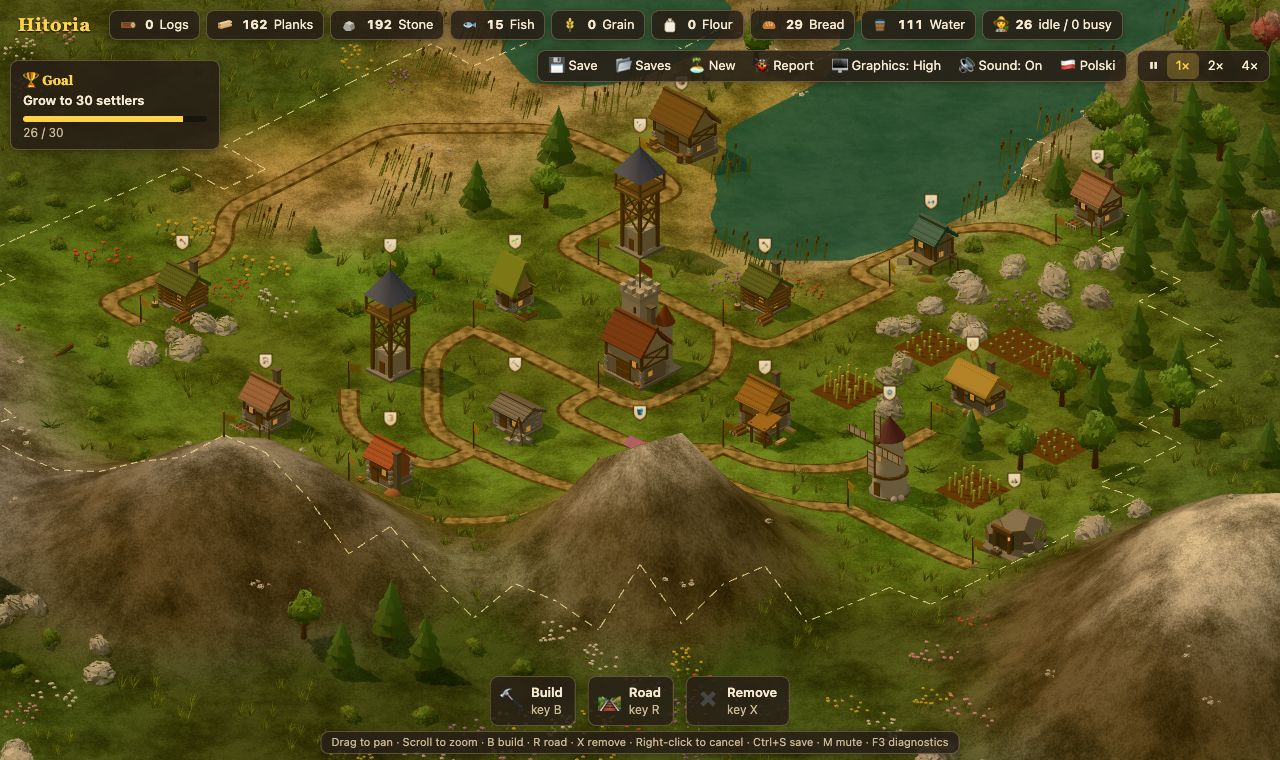
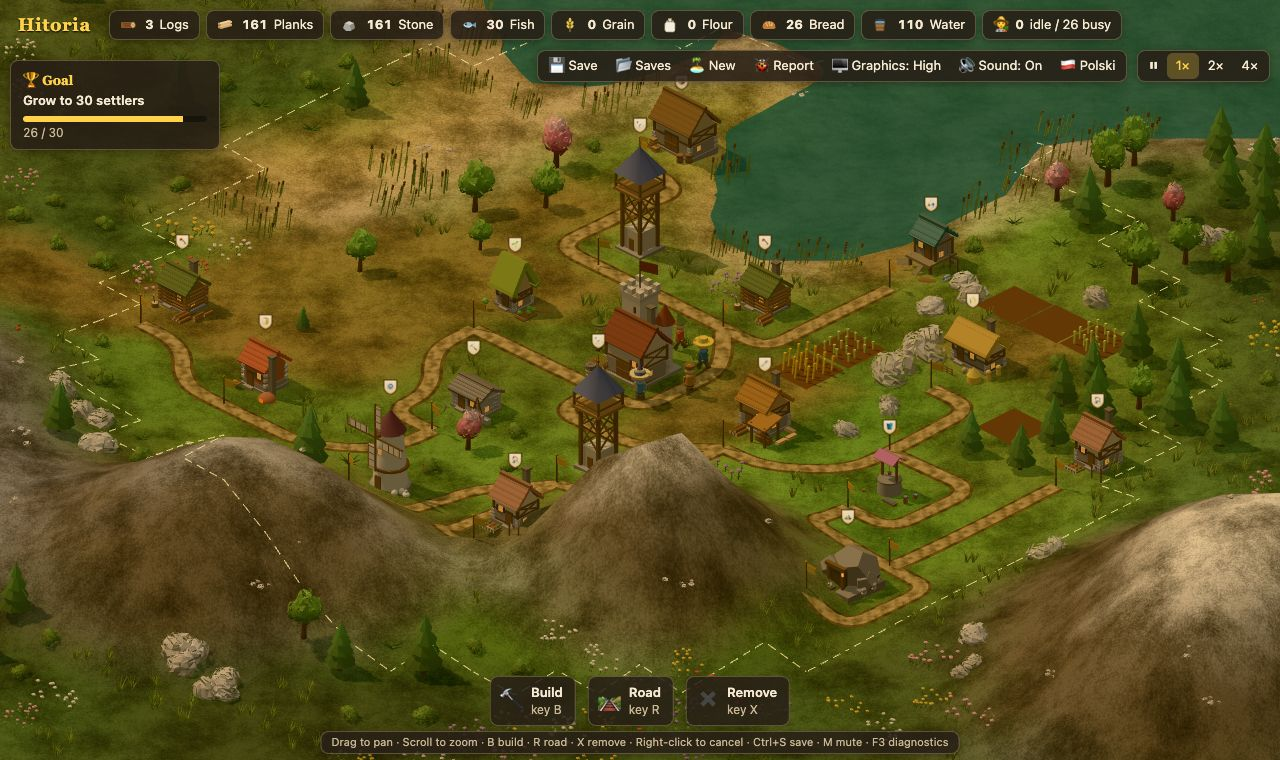
Add Worn paths changelog entry and README notes

diff --git a/README.md b/README.md
@@ -137,7 +137,7 @@ Saves live in your browser's local storage. You can keep as many as the storage 
 - **New** starts a fresh island. It makes an autosave of the old island first.
 - Opening the page continues from your newest save.
 
-The save keeps the map, buildings, roads, flags, every good and your goals. It does not keep where settlers are.
+The save keeps the map, buildings, roads, flags, worn paths, every good and your goals. It does not keep where settlers are.
 After a load, everyone starts in the HQ and walks back to their post. Goods a settler was holding go
 back to their building, so nothing is lost.
 
@@ -170,7 +170,7 @@ Browsers block sound until you click or press a key, so the sound starts then.
 | File | What it does |
 | --- | --- |
 | `src/world.ts` | Seeded map generation: island, forests, boulders, mountains, the mountain and bay every start gets, and the second island across the bay |
-| `src/game/` | Simulation: buildings, demolishing, roads, settlers, carriers, farm fields, food, goals and saving |
+| `src/game/` | Simulation: buildings, demolishing, roads, worn paths, settlers, carriers, farm fields, food, goals and saving |
 | `src/path.ts` | A* pathfinding on the tile grid |
 | `src/render/` | Three.js 3D renderer: terrain, water, buildings, settlers, overlays. Keeps the isometric camera angle. `looks.ts` gives each building its body shape and colours |
 | `src/quality/` | The graphics setting, and Auto, which lowers it when frames are slow |
@@ -200,6 +200,10 @@ Every building has a flag in front of its door. Flags mark where roads end and w
 A carrier takes one good from the building that has it and walks it along the roads, all the way
 to the building that needs it. Goods never wait on flags. Settlers walk 1.5× faster on roads.
 A building that isn't connected to the HQ by road gets no materials.
+
+Off the roads, settlers' footsteps wear the grass into dirt paths. Settlers walk up to 1.25×
+faster on a well-worn path, so they keep to the same lines. A path nobody walks for a minute
+fades back to grass over about 3 minutes.
 
 ## Ideas
 

diff --git a/changelog/entries/2026-10-31-worn-paths.md b/changelog/entries/2026-10-31-worn-paths.md
@@ -1,0 +1,22 @@
+---
+title: Worn paths
+date: '2026-10-31 20:30'
+shots:
+  - name: paths
+    caption: A quarry west of the HQ. Its worker has worn dirt paths out to the boulders.
+    steps:
+      - key: '3'
+      - hover: [-180, -70]
+      - click: [-180, -70]
+      - key: Escape
+      - click: '#speed [data-speed="4"]'
+      - wait: 40000
+      - wheel: -3
+      - wait: 1000
+---
+Settlers now wear the grass into dirt paths where they walk. The more often they walk a line,
+the browner it gets, and flowers and grass on it disappear.
+
+Settlers walk faster on worn paths, so they keep to the same lines. A path nobody uses for a
+minute fades back to grass over about 3 minutes. Busy paths never fade. Your paths are saved
+with the game.
